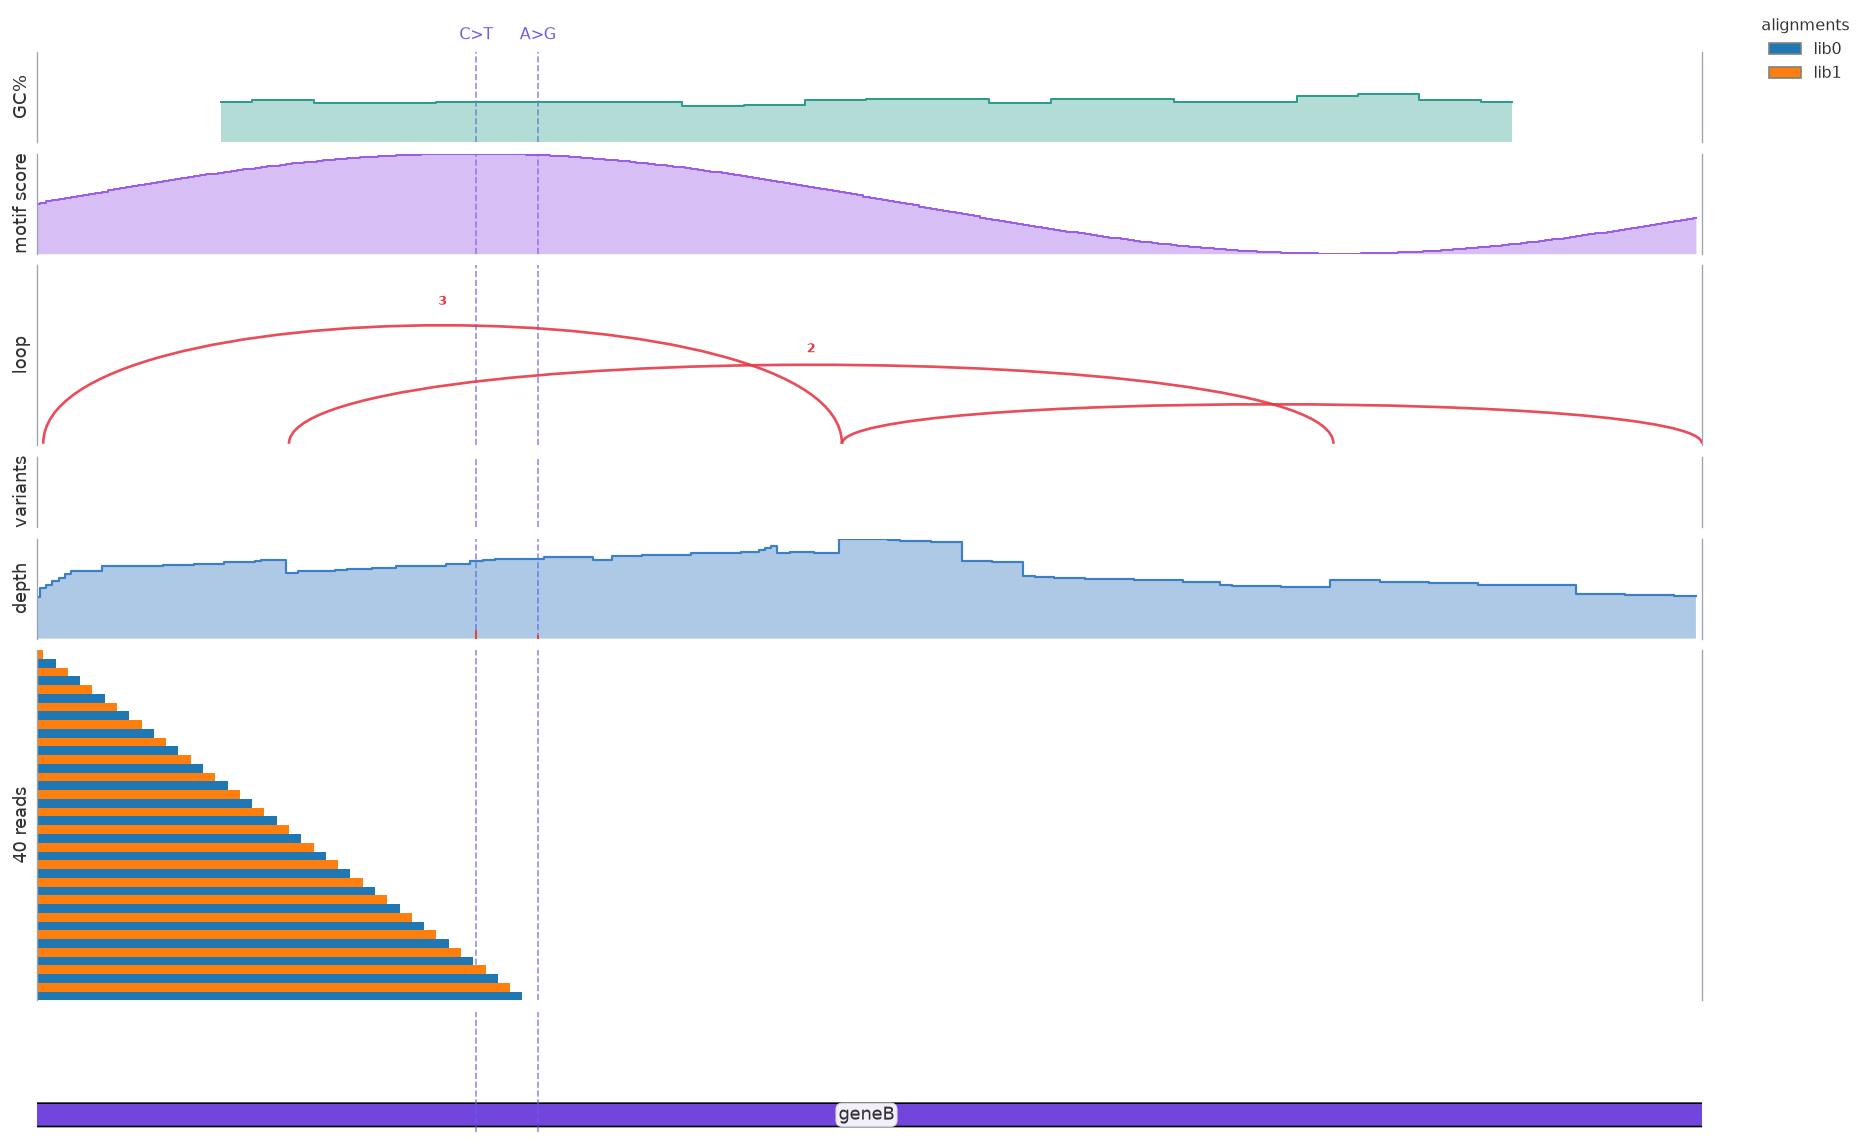
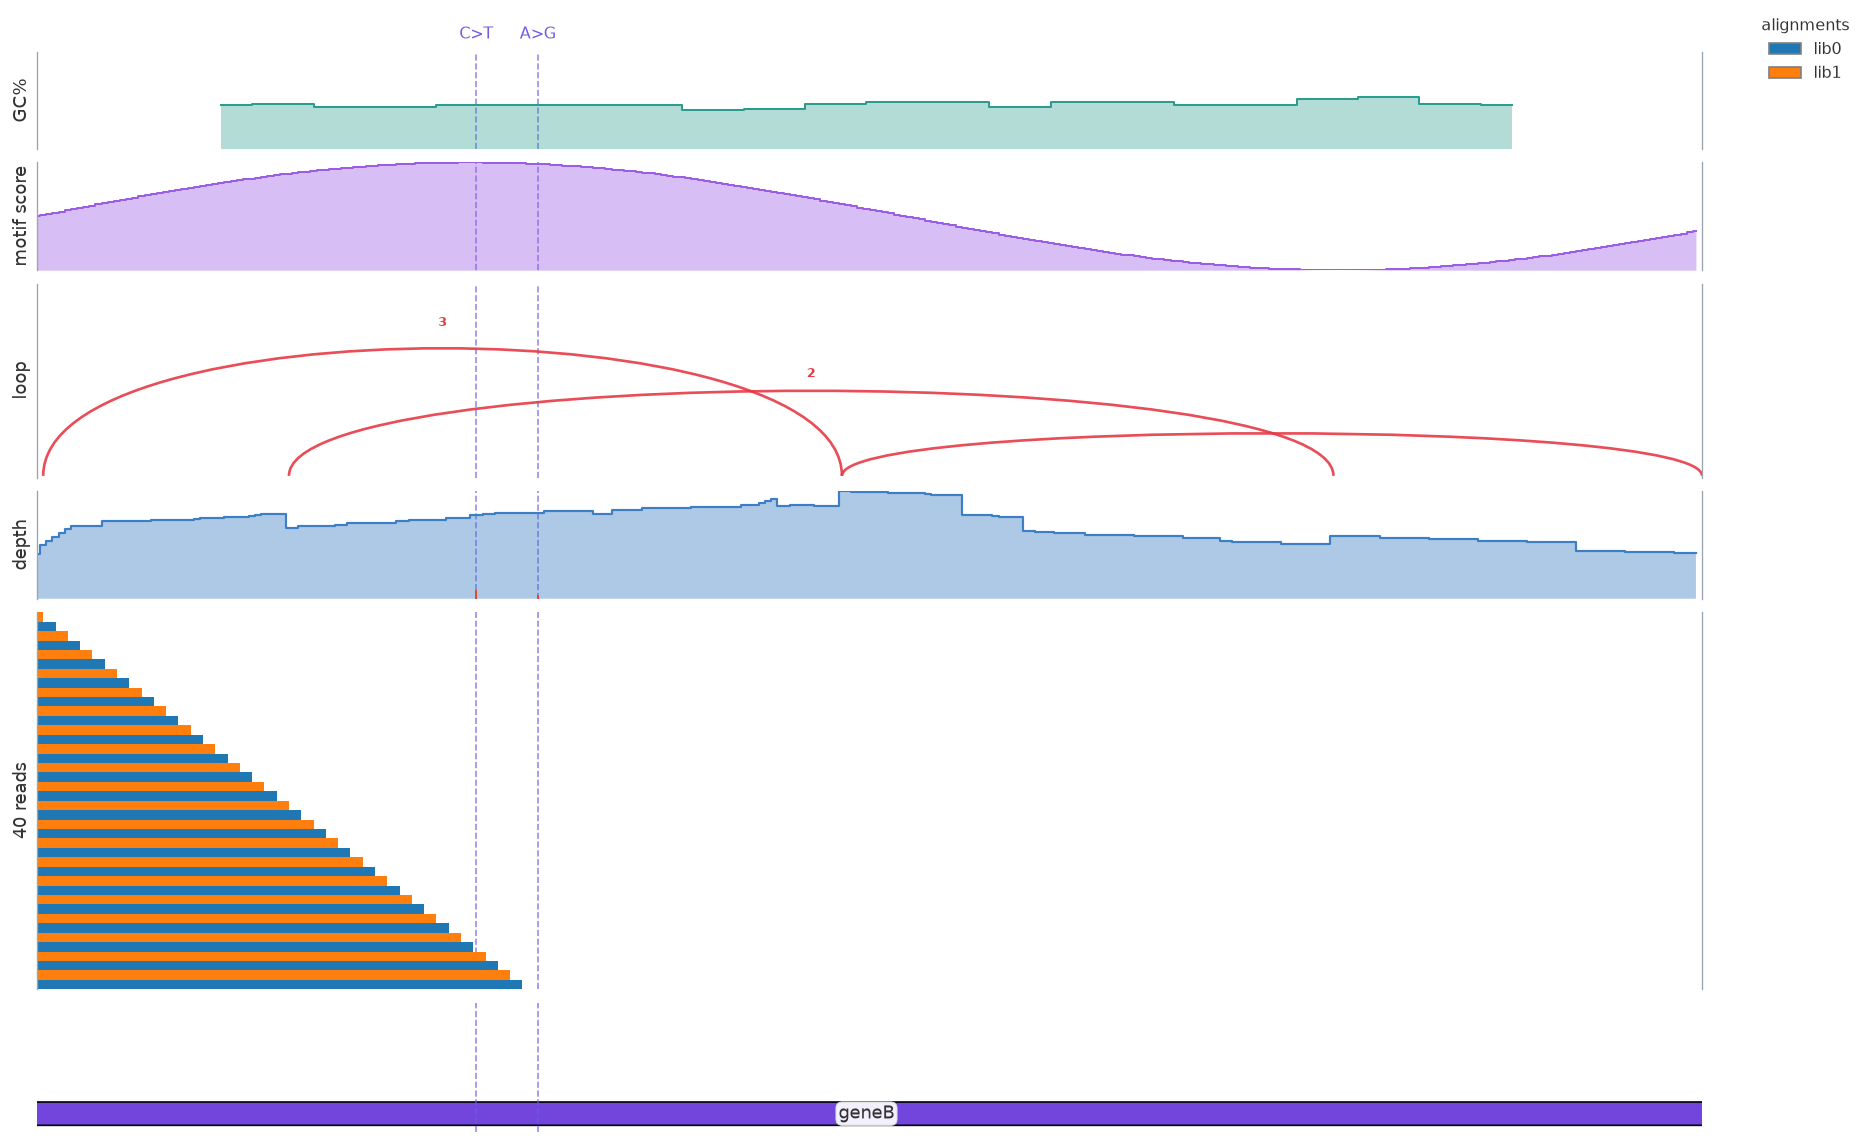
Polish: API docstring, simplify add_variants, CHANGELOG
- add_variants now just registers variant site markers (no redundant empty track);
  update the gallery figure.
- Rewrite the package docstring to document both the one-call plot_view and the
  fluent IGV builder plus the expanded track set.
- CHANGELOG: add an [Unreleased] section capturing the new features + fixes.

diff --git a/igvplot/__init__.py b/igvplot/__init__.py
@@ -1,20 +1,32 @@
 """igvplot: IGV-style genomic visualization in matplotlib.
 
-Stack aligned reads, per-base coverage and gene/feature annotation tracks
-(drawn by ``dna_features_viewer``) on shared x-axes, with read-level mismatch,
-insertion and deletion display.
+Stack aligned reads, per-base coverage, gene/feature annotation, splice
+junctions, base modifications, Hi-C/TAD and other signal tracks on shared
+x-axes, with read-level mismatch / insertion / deletion display.
 
-Typical usage::
+Two ways to build a figure:
 
-    import igvplot
-    view = igvplot.plot_view(
-        bam_path="sample.bam",
-        region="chr1:1,000-2,000",
-        features="annotation.gb",
-        reference="genome.fa",
-        sites={1050: "m6A site", 1200: "SNP"},
-        out_path="locus.png",
-    )
+1. One-call convenience::
+
+       view = igvplot.plot_view(
+           bam_path="sample.bam", region="chr1:1,000-2,000",
+           features="annotation.gb", reference="genome.fa",
+           sites={1050: "m6A"}, sashimi=True, out_path="locus.png",
+       )
+
+2. Fluent builder (``IGV``/``GenomeView``/``AlignmentView`` are the same class)::
+
+       from igvplot import IGV
+       igv = IGV("chr1:1,000-2,000", reference="genome.fa")
+       igv.add_reads("rna.bam", color_by="readgroup").add_coverage("rna.bam")
+       igv.add_sashimi("rna.bam").add_features("annotation.gb")
+       igv.add_base_mods({1050: (1, "m6A")}).add_sites({1050: "m6A"})
+       igv.savefig("locus.png")
+
+Track adders include reads (overlay), coverage (strand/overlay), sashimi
+(overlay/junctions-BED), features, sequence, sites, base mods, variants, GC,
+signal, interaction arcs, Hi-C/TAD/BED/scale and fully custom tracks
+(``add_track``). ``igvplot.summary`` returns region QC stats.
 """
 from .region import Region
 from .reads import (

diff --git a/igvplot/view.py b/igvplot/view.py
@@ -823,28 +823,15 @@ class GenomeView:
         self.tracks.append(Track(weight=weight, kind="gc", draw=_draw))
         return self
 
-    def add_variants(
-        self,
-        source: str,
-        color: str = "#e0492f",
-        weight: float = 0.6,
-        label: str = "variants",
-    ) -> "GenomeView":
-        """Add a variant track from a VCF or BED file.
+    def add_variants(self, source: str, color: str = "#e0492f") -> "GenomeView":
+        """Mark variants from a VCF/BED file as ``REF>ALT`` across every track.
 
-        Each variant is drawn as a vertical marker with a ``REF>ALT`` label
-        across every track (same as :meth:`add_sites` but auto-parsed).
+        Parses the file and registers the sites (like :meth:`add_sites`), so the
+        variant positions and labels appear as markers across all stacked tracks.
         """
         region = self.region
         sites = _parse_variants(source, region.chrom)
         self.sites.update(sites)
-
-        def _draw(ax, region):
-            ax.set_xlim(region.start, region.end)
-            ax.set_yticks([])
-            ax.set_ylabel(label, fontsize=_fs(11))
-
-        self.tracks.append(Track(weight=weight, kind="variants", draw=_draw))
         return self
 
     def add_arc(

diff --git a/examples/generate_gallery.py b/examples/generate_gallery.py
@@ -211,7 +211,7 @@ def new_tracks():
         .add_gc(window=60, weight=0.9)
         .add_signal((np.sin(np.linspace(0, 6, n)) * 0.5 + 0.5) * 9, ylabel="motif score", color="#9b5de5", weight=1.0)
         .add_arc([(6930, 7060, 3.0), (6970, 7140, 2.0), (7060, 7200, 1.0)], label="loop", weight=1.8)
-        .add_variants(VCF, weight=0.7)
+        .add_variants(VCF)
         .add_coverage(BAM, reference=REF)
         .add_reads(BAM, reference=REF, color_by="readgroup", group_by="pairOrientation", max_reads=40)
         .add_features(GB, min_feature_length=3)

diff --git a/CHANGELOG.md b/CHANGELOG.md
@@ -4,6 +4,30 @@ All notable changes to **igvplot** are recorded here. The format follows
 [Keep a Changelog](https://keepachangelog.com/); this project adheres to
 [Semantic Versioning](https://semver.org/).
 
+## [Unreleased]
+
+### Added
+- Multi-sample comparison tracks: `.add_reads_overlay`, `.add_sashimi_overlay`
+  (ggsashimi-style), `.add_coverage_strands` (strand-specific coverage),
+  `.add_junctions_bed` (precomputed junctions), `add_coverage(strand=...)`.
+- Generic/utility tracks: `.add_signal` (1-D signal), `.add_gc` (GC content),
+  `.add_variants` (VCF/BED variants), `.add_arc` (interaction/loop arcs),
+  `.add_track` (custom callback).
+- `igvplot.summary(bam, region, reference)` → region QC statistics.
+- `draw_interaction_arc` primitive and `add_coverage(strand=...)` pileup filter.
+
+### Fixed
+- Reference lifecycle: `add_coverage` propagates a reference to later tracks and
+  closes a replaced held `Reference`; `add_sequence` closes the fasta it opens.
+- `GenomeView.close()` releases a held reference (called from `savefig`).
+- Deletions merged into contiguous spans (correct `show_deletion_text` lengths).
+- `add_coverage_overlay` no longer scans the BAM twice per sample.
+- `_pack_pairs_into_rows` dedup (pairs processed once), IGV "view as pairs".
+- `coverage_from_bedgraph` accepts interval tuples; `pathlib.Path` supported
+  everywhere; centred `chr:pos` regions; degenerate insert-colormap guard.
+- README converted to an image-first gallery; CI adds a ruff lint job and runs
+  tests with warnings-as-errors.
+
 ## [0.1.0] — 2026
 
 ### Added
